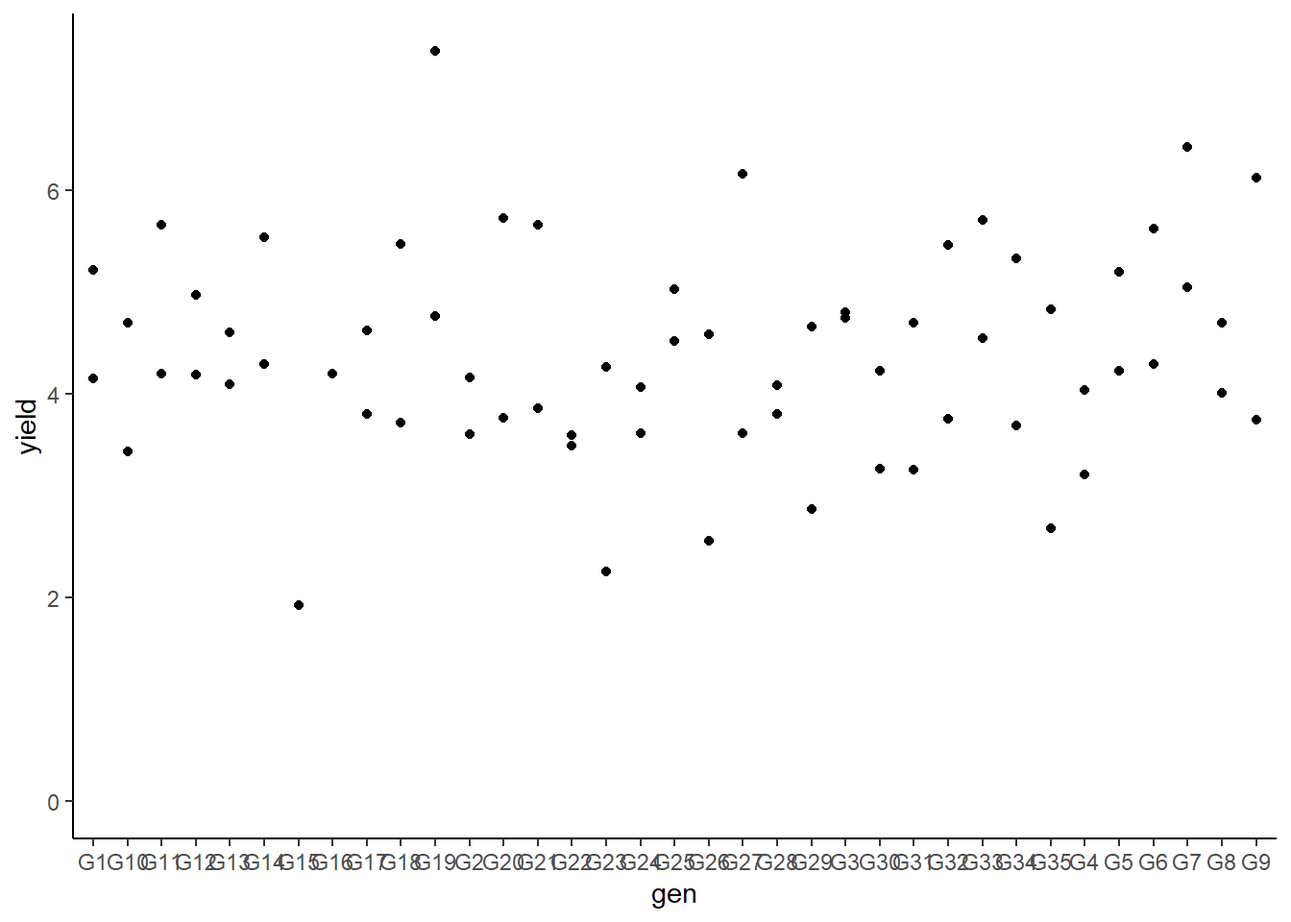
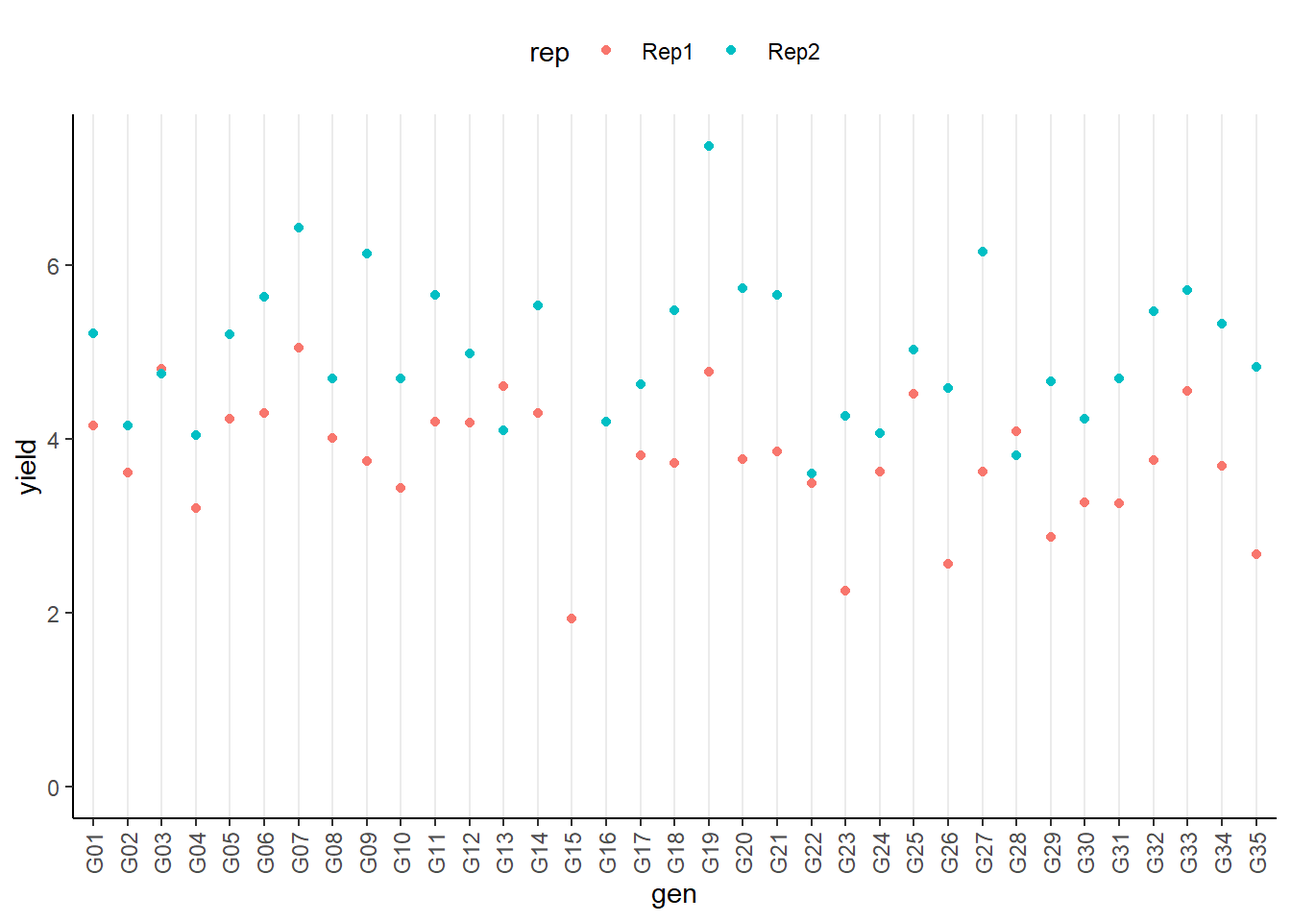
rowcol example

diff --git a/rowcol_KemptonFox1997.html b/rowcol_KemptonFox1997.html
@@ -505,6 +505,9 @@ div.tocify {
     <li>
       <a href="alpha_JohnWilliams1995.html">alpha_JohnWilliams1995</a>
     </li>
+    <li>
+      <a href="rowcol_KemptonFox1997.html">rowcol_KemptonFox1997</a>
+    </li>
   </ul>
 </li>
 <li class="dropdown">
@@ -546,7 +549,7 @@ div.tocify {
 
 <div class="sourceCode" id="cb1"><pre class="sourceCode r"><code class="sourceCode r"><a class="sourceLine" id="cb1-1" title="1"><span class="co"># packages</span></a>
 <a class="sourceLine" id="cb1-2" title="2">pacman<span class="op">::</span><span class="kw">p_load</span>(janitor, readr, tidyverse, <span class="co"># data import and handling</span></a>
-<a class="sourceLine" id="cb1-3" title="3">               lme4,                      <span class="co"># linear mixed model </span></a>
+<a class="sourceLine" id="cb1-3" title="3">               lme4, lmerTest,            <span class="co"># linear mixed model </span></a>
 <a class="sourceLine" id="cb1-4" title="4">               emmeans, multcomp,         <span class="co"># mean comparisons</span></a>
 <a class="sourceLine" id="cb1-5" title="5">               ggplot2, desplot)          <span class="co"># plots </span></a></code></pre></div>
 <div id="data" class="section level1">
@@ -563,10 +566,10 @@ div.tocify {
 ##    rep     row   col gen   yield
 ##    &lt;chr&gt; &lt;dbl&gt; &lt;dbl&gt; &lt;chr&gt; &lt;dbl&gt;
 ##  1 Rep1      1     1 G20    3.77
-##  2 Rep1      1     2 G4     3.21
+##  2 Rep1      1     2 G04    3.21
 ##  3 Rep1      1     3 G33    4.55
 ##  4 Rep1      1     4 G28    4.09
-##  5 Rep1      1     5 G7     5.05
+##  5 Rep1      1     5 G07    5.05
 ##  6 Rep1      1     6 G12    4.19
 ##  7 Rep1      1     7 G30    3.27
 ##  8 Rep1      2     1 G10    3.44
@@ -602,48 +605,219 @@ div.tocify {
 ##    gen    mean std.dev
 ##    &lt;fct&gt; &lt;dbl&gt;   &lt;dbl&gt;
 ##  1 G19    6.07  1.84  
-##  2 G7     5.74  0.976 
+##  2 G07    5.74  0.976 
 ##  3 G33    5.13  0.820 
-##  4 G6     4.96  0.940 
-##  5 G9     4.94  1.68  
+##  4 G06    4.96  0.940 
+##  5 G09    4.94  1.68  
 ##  6 G11    4.93  1.03  
 ##  7 G14    4.92  0.877 
 ##  8 G27    4.89  1.80  
-##  9 G3     4.78  0.0424
+##  9 G03    4.78  0.0424
 ## 10 G25    4.78  0.361 
 ## 11 G21    4.76  1.27  
 ## 12 G20    4.75  1.39  
-## 13 G5     4.72  0.686 
-## 14 G1     4.69  0.757 
+## 13 G05    4.72  0.686 
+## 14 G01    4.69  0.757 
 ## 15 G32    4.62  1.21  
 ## 16 G18    4.6   1.24  
 ## 17 G12    4.59  0.559 
 ## 18 G34    4.51  1.16  
-## 19 G13    4.36  0.361 
-## 20 G8     4.36  0.488 
+## 19 G08    4.36  0.488 
+## 20 G13    4.36  0.361 
 ## 21 G17    4.22  0.580 
 ## 22 G16    4.2  NA     
 ## 23 G10    4.07  0.891 
 ## 24 G31    3.98  1.02  
 ## 25 G28    3.95  0.198 
-## 26 G2     3.88  0.389 
+## 26 G02    3.88  0.389 
 ## 27 G24    3.84  0.318 
 ## 28 G29    3.76  1.27  
 ## 29 G35    3.76  1.52  
 ## 30 G30    3.75  0.679 
-## 31 G4     3.62  0.587 
+## 31 G04    3.62  0.587 
 ## 32 G26    3.58  1.44  
 ## 33 G22    3.54  0.0778
 ## 34 G23    3.26  1.42  
 ## 35 G15    1.93 NA</code></pre>
 <p>We can also create a plot to get a better feeling for the data.</p>
 <div class="sourceCode" id="cb8"><pre class="sourceCode r"><code class="sourceCode r"><a class="sourceLine" id="cb8-1" title="1"><span class="kw">ggplot</span>(<span class="dt">data =</span> dat,</a>
-<a class="sourceLine" id="cb8-2" title="2">       <span class="kw">aes</span>(<span class="dt">y =</span> yield, <span class="dt">x =</span> gen)) <span class="op">+</span></a>
+<a class="sourceLine" id="cb8-2" title="2">       <span class="kw">aes</span>(<span class="dt">y =</span> yield, <span class="dt">x =</span> gen, <span class="dt">color=</span>rep)) <span class="op">+</span></a>
 <a class="sourceLine" id="cb8-3" title="3"><span class="st">  </span><span class="kw">geom_point</span>() <span class="op">+</span><span class="st">  </span><span class="co"># scatter plot</span></a>
 <a class="sourceLine" id="cb8-4" title="4"><span class="st">  </span><span class="kw">ylim</span>(<span class="dv">0</span>, <span class="ot">NA</span>) <span class="op">+</span><span class="st">   </span><span class="co"># force y-axis to start at 0</span></a>
-<a class="sourceLine" id="cb8-5" title="5"><span class="st">  </span><span class="kw">theme_classic</span>() <span class="co"># clearer plot format </span></a></code></pre></div>
-<pre><code>## Warning: Removed 2 rows containing missing values (geom_point).</code></pre>
+<a class="sourceLine" id="cb8-5" title="5"><span class="st">  </span><span class="kw">theme_classic</span>() <span class="op">+</span><span class="st"> </span><span class="co"># clearer plot format </span></a>
+<a class="sourceLine" id="cb8-6" title="6"><span class="st">  </span><span class="kw">theme</span>(<span class="dt">axis.text.x =</span> <span class="kw">element_text</span>(<span class="dt">angle=</span><span class="dv">90</span>, <span class="dt">vjust=</span><span class="fl">0.5</span>), <span class="co"># rotate x-axis label</span></a>
+<a class="sourceLine" id="cb8-7" title="7">        <span class="dt">panel.grid.major.x =</span> <span class="kw">element_line</span>(), <span class="co"># add vertikal grid lines</span></a>
+<a class="sourceLine" id="cb8-8" title="8">        <span class="dt">legend.position =</span> <span class="st">&quot;top&quot;</span>) <span class="co"># legend on top </span></a></code></pre></div>
 <p><img src="rowcol_KemptonFox1997_files/figure-html/unnamed-chunk-7-1.png" width="672" style="display: block; margin: auto;" /></p>
+</div>
+</div>
+<div id="modelling" class="section level1">
+<h1>Modelling</h1>
+<p>Finally, we can decide to fit a linear model with <code>yield</code> as the response variable and fixed <code>gen</code> and <code>rep</code> effects. There also need to be terms for the 5 rows (<code>row</code>) and 7 columns (<code>col</code>) per replicate. Notice that they can either be taken as a fixed or a random effects. Since our goal is to compare genotypes, we will determine which of the two models we prefer by comparing the average standard error of a difference (s.e.d.) for the comparisons between adjusted genotype means - the lower the s.e.d. the better.</p>
+<p>Also notice that in our dataset the <code>row</code> and <code>col</code> columns were defined as <em>numeric</em> because this format is needed when creating the field layout with desplot as we did above. However, now in order to have row and column effects in our model, we need to define them as factors. To make this clear, we will not just change the format, but create a copy of these two columns in the correct format:</p>
+<div class="sourceCode" id="cb9"><pre class="sourceCode r"><code class="sourceCode r"><a class="sourceLine" id="cb9-1" title="1">dat &lt;-<span class="st"> </span>dat <span class="op">%&gt;%</span><span class="st"> </span></a>
+<a class="sourceLine" id="cb9-2" title="2"><span class="st">  </span><span class="kw">mutate</span>(<span class="dt">row_fct =</span> <span class="kw">as.factor</span>(row),</a>
+<a class="sourceLine" id="cb9-3" title="3">         <span class="dt">col_fct =</span> <span class="kw">as.factor</span>(col))</a></code></pre></div>
+<p>Furthermore, when building our model we must ensure that row and column effects are being estimated <strong>per replicate</strong>. Thuse, we have 2x5 row effects and 2x7 column effects. This can be done as:</p>
+<div class="row">
+<div class="col-md-6">
+<div class="sourceCode" id="cb10"><pre class="sourceCode r"><code class="sourceCode r"><a class="sourceLine" id="cb10-1" title="1"><span class="co"># rows and cols fixed (linear model)</span></a>
+<a class="sourceLine" id="cb10-2" title="2">mod.fb &lt;-<span class="st"> </span><span class="kw">lm</span>(yield <span class="op">~</span><span class="st"> </span>gen <span class="op">+</span><span class="st"> </span>rep <span class="op">+</span></a>
+<a class="sourceLine" id="cb10-3" title="3"><span class="st">               </span>rep<span class="op">:</span>row_fct <span class="op">+</span><span class="st"> </span></a>
+<a class="sourceLine" id="cb10-4" title="4"><span class="st">               </span>rep<span class="op">:</span>col_fct,</a>
+<a class="sourceLine" id="cb10-5" title="5">             <span class="dt">data =</span> dat)</a>
+<a class="sourceLine" id="cb10-6" title="6"></a>
+<a class="sourceLine" id="cb10-7" title="7">mod.fb <span class="op">%&gt;%</span></a>
+<a class="sourceLine" id="cb10-8" title="8"><span class="st">  </span><span class="kw">emmeans</span>(pairwise <span class="op">~</span><span class="st"> &quot;gen&quot;</span>,</a>
+<a class="sourceLine" id="cb10-9" title="9">          <span class="dt">adjust =</span> <span class="st">&quot;tukey&quot;</span>,</a>
+<a class="sourceLine" id="cb10-10" title="10">          <span class="dt">lmer.df =</span> <span class="st">&quot;kenward-roger&quot;</span>) <span class="op">%&gt;%</span></a>
+<a class="sourceLine" id="cb10-11" title="11"><span class="st">  </span><span class="kw">pluck</span>(<span class="st">&quot;contrasts&quot;</span>) <span class="op">%&gt;%</span><span class="st"> </span><span class="co"># extract diffs</span></a>
+<a class="sourceLine" id="cb10-12" title="12"><span class="st">  </span>as_tibble <span class="op">%&gt;%</span><span class="st"> </span><span class="co"># format to table</span></a>
+<a class="sourceLine" id="cb10-13" title="13"><span class="st">  </span><span class="kw">pluck</span>(<span class="st">&quot;SE&quot;</span>) <span class="op">%&gt;%</span><span class="st"> </span><span class="co"># extract s.e.d. column</span></a>
+<a class="sourceLine" id="cb10-14" title="14"><span class="st">  </span>mean <span class="co"># get arithmetic mean</span></a></code></pre></div>
+<pre><code>## [1] 0.4083057</code></pre>
+</div>
+<div class="col-md-6">
+<div class="sourceCode" id="cb12"><pre class="sourceCode r"><code class="sourceCode r"><a class="sourceLine" id="cb12-1" title="1"><span class="co"># rows and cols random (linear mixed model)</span></a>
+<a class="sourceLine" id="cb12-2" title="2">mod.rb &lt;-<span class="st"> </span><span class="kw">lmer</span>(yield <span class="op">~</span><span class="st"> </span>gen <span class="op">+</span><span class="st"> </span>rep <span class="op">+</span></a>
+<a class="sourceLine" id="cb12-3" title="3"><span class="st">                 </span>(<span class="dv">1</span><span class="op">|</span>rep<span class="op">:</span>row_fct) <span class="op">+</span><span class="st"> </span></a>
+<a class="sourceLine" id="cb12-4" title="4"><span class="st">                 </span>(<span class="dv">1</span><span class="op">|</span>rep<span class="op">:</span>col_fct),</a>
+<a class="sourceLine" id="cb12-5" title="5">               <span class="dt">data =</span> dat)</a>
+<a class="sourceLine" id="cb12-6" title="6"></a>
+<a class="sourceLine" id="cb12-7" title="7">mod.rb <span class="op">%&gt;%</span></a>
+<a class="sourceLine" id="cb12-8" title="8"><span class="st">  </span><span class="kw">emmeans</span>(pairwise <span class="op">~</span><span class="st"> &quot;gen&quot;</span>,</a>
+<a class="sourceLine" id="cb12-9" title="9">          <span class="dt">adjust =</span> <span class="st">&quot;tukey&quot;</span>,</a>
+<a class="sourceLine" id="cb12-10" title="10">          <span class="dt">lmer.df =</span> <span class="st">&quot;kenward-roger&quot;</span>) <span class="op">%&gt;%</span></a>
+<a class="sourceLine" id="cb12-11" title="11"><span class="st">  </span><span class="kw">pluck</span>(<span class="st">&quot;contrasts&quot;</span>) <span class="op">%&gt;%</span><span class="st"> </span><span class="co"># extract diffs</span></a>
+<a class="sourceLine" id="cb12-12" title="12"><span class="st">  </span>as_tibble <span class="op">%&gt;%</span><span class="st"> </span><span class="co"># format to table</span></a>
+<a class="sourceLine" id="cb12-13" title="13"><span class="st">  </span><span class="kw">pluck</span>(<span class="st">&quot;SE&quot;</span>) <span class="op">%&gt;%</span><span class="st"> </span><span class="co"># extract s.e.d. column</span></a>
+<a class="sourceLine" id="cb12-14" title="14"><span class="st">  </span>mean <span class="co"># get arithmetic mean</span></a></code></pre></div>
+<pre><code>## [1] 0.4020136</code></pre>
+</div>
+</div>
+<p>As a result, we find that the model with random row and column effects has the smaller s.e.d. and is therefore more precise in terms of comparing genotypes.</p>
+<div id="anova" class="section level2">
+<h2>ANOVA</h2>
+<p>Thus, we can conduct an ANOVA for this model.</p>
+<div class="sourceCode" id="cb14"><pre class="sourceCode r"><code class="sourceCode r"><a class="sourceLine" id="cb14-1" title="1">mod.rb <span class="op">%&gt;%</span><span class="st"> </span><span class="kw">anova</span>()</a></code></pre></div>
+<pre><code>## Type III Analysis of Variance Table with Satterthwaite&#39;s method
+##      Sum Sq Mean Sq NumDF  DenDF F value   Pr(&gt;F)   
+## gen 15.0149 0.44161    34 13.770  4.8988 0.001465 **
+## rep  1.5606 1.56061     1 12.651 17.3119 0.001183 **
+## ---
+## Signif. codes:  0 &#39;***&#39; 0.001 &#39;**&#39; 0.01 &#39;*&#39; 0.05 &#39;.&#39; 0.1 &#39; &#39; 1</code></pre>
+<p>As can be seen, the F-test finds the <code>gen</code> effects to be statistically significant (p = 0.0015 &lt; 0.05).</p>
+</div>
+<div id="mean-comparisons" class="section level2">
+<h2>Mean comparisons</h2>
+<div class="sourceCode" id="cb16"><pre class="sourceCode r"><code class="sourceCode r"><a class="sourceLine" id="cb16-1" title="1">mean_comparisons &lt;-<span class="st"> </span>mod.rb <span class="op">%&gt;%</span></a>
+<a class="sourceLine" id="cb16-2" title="2"><span class="st">  </span><span class="kw">emmeans</span>(pairwise <span class="op">~</span><span class="st"> &quot;gen&quot;</span>,</a>
+<a class="sourceLine" id="cb16-3" title="3">          <span class="dt">adjust =</span> <span class="st">&quot;tukey&quot;</span>,</a>
+<a class="sourceLine" id="cb16-4" title="4">          <span class="dt">lmer.df =</span> <span class="st">&quot;kenward-roger&quot;</span>) <span class="op">%&gt;%</span></a>
+<a class="sourceLine" id="cb16-5" title="5"><span class="st">  </span><span class="kw">pluck</span>(<span class="st">&quot;emmeans&quot;</span>) <span class="op">%&gt;%</span></a>
+<a class="sourceLine" id="cb16-6" title="6"><span class="st">  </span><span class="kw">cld</span>(<span class="dt">details =</span> <span class="ot">TRUE</span>, <span class="dt">Letters =</span> letters) <span class="co"># add letter display</span></a>
+<a class="sourceLine" id="cb16-7" title="7"></a>
+<a class="sourceLine" id="cb16-8" title="8">mean_comparisons<span class="op">$</span>emmeans <span class="co"># adjusted genotype means</span></a></code></pre></div>
+<pre><code>##  gen emmean    SE   df lower.CL upper.CL .group
+##  G15   3.22 0.443 23.5     1.62     4.81  a    
+##  G23   3.42 0.304 25.6     2.34     4.51  a    
+##  G04   3.52 0.305 25.5     2.43     4.61  a    
+##  G35   3.60 0.309 25.8     2.50     4.70  a    
+##  G26   3.76 0.316 26.8     2.64     4.88  ab   
+##  G29   3.79 0.308 25.9     2.70     4.89  ab   
+##  G31   3.86 0.309 26.1     2.76     4.96  ab   
+##  G24   3.89 0.302 25.3     2.81     4.97  abc  
+##  G02   3.91 0.309 26.1     2.82     5.01  abc  
+##  G30   3.95 0.305 25.5     2.87     5.04  abc  
+##  G16   3.95 0.439 22.9     2.37     5.54  abc  
+##  G22   4.01 0.311 26.4     2.91     5.12  abc  
+##  G17   4.15 0.312 26.1     3.04     5.26  abc  
+##  G32   4.26 0.308 25.9     3.17     5.36  abc  
+##  G28   4.29 0.310 25.7     3.19     5.40  abc  
+##  G34   4.30 0.302 25.3     3.22     5.38  abc  
+##  G20   4.32 0.302 25.3     3.24     5.40  abc  
+##  G10   4.33 0.309 25.7     3.23     5.43  abc  
+##  G09   4.35 0.306 25.8     3.26     5.44  abc  
+##  G05   4.40 0.308 25.7     3.30     5.49  abc  
+##  G18   4.56 0.310 26.4     3.46     5.67  abc  
+##  G21   4.59 0.304 25.5     3.51     5.68  abc  
+##  G08   4.60 0.312 26.2     3.49     5.71  abc  
+##  G25   4.64 0.310 25.7     3.54     5.74  abc  
+##  G13   4.68 0.312 26.1     3.57     5.79  abc  
+##  G27   4.70 0.311 26.1     3.59     5.81  abc  
+##  G14   4.76 0.305 25.6     3.68     5.85  abc  
+##  G01   4.81 0.303 25.4     3.73     5.90  abc  
+##  G33   4.91 0.312 26.2     3.81     6.02  abc  
+##  G11   4.93 0.308 26.0     3.84     6.03  abc  
+##  G12   4.95 0.319 26.6     3.82     6.08  abc  
+##  G07   5.09 0.305 25.5     4.00     6.17  abc  
+##  G03   5.10 0.311 25.8     3.99     6.20  abc  
+##  G06   5.41 0.312 26.0     4.30     6.52   bc  
+##  G19   5.67 0.311 25.9     4.56     6.78    c  
+## 
+## Results are averaged over the levels of: rep 
+## Degrees-of-freedom method: kenward-roger 
+## Confidence level used: 0.95 
+## Conf-level adjustment: sidak method for 35 estimates 
+## P value adjustment: tukey method for comparing a family of 35 estimates 
+## significance level used: alpha = 0.05</code></pre>
+</div>
+</div>
+<div id="present-results" class="section level1">
+<h1>Present results</h1>
+<div id="mean-comparisons-1" class="section level2">
+<h2>Mean comparisons</h2>
+<p>For this example we can create a plot that displays both the raw data and the results, <em>i.e.</em> the comparisons of the adjusted means that are based on the linear model.</p>
+<div class="sourceCode" id="cb18"><pre class="sourceCode r"><code class="sourceCode r"><a class="sourceLine" id="cb18-1" title="1"><span class="co"># sort gen factors according to emmean</span></a>
+<a class="sourceLine" id="cb18-2" title="2"><span class="co"># for adjusted means</span></a>
+<a class="sourceLine" id="cb18-3" title="3">mean_comparisons<span class="op">$</span>emmeans &lt;-<span class="st"> </span>mean_comparisons<span class="op">$</span>emmeans <span class="op">%&gt;%</span><span class="st"> </span></a>
+<a class="sourceLine" id="cb18-4" title="4"><span class="st">  </span><span class="kw">mutate</span>(<span class="dt">gen =</span> <span class="kw">fct_reorder</span>(<span class="dt">.f =</span> gen, <span class="dt">.x =</span> emmean))</a>
+<a class="sourceLine" id="cb18-5" title="5"></a>
+<a class="sourceLine" id="cb18-6" title="6"><span class="co"># for raw data</span></a>
+<a class="sourceLine" id="cb18-7" title="7">dat &lt;-<span class="st"> </span>dat <span class="op">%&gt;%</span><span class="st"> </span></a>
+<a class="sourceLine" id="cb18-8" title="8"><span class="st">  </span><span class="kw">mutate</span>(<span class="dt">gen =</span> <span class="kw">fct_relevel</span>(<span class="dt">.f =</span> gen, </a>
+<a class="sourceLine" id="cb18-9" title="9">                           <span class="kw">as.character</span>(mean_comparisons<span class="op">$</span>emmeans<span class="op">$</span>gen)))</a>
+<a class="sourceLine" id="cb18-10" title="10"></a>
+<a class="sourceLine" id="cb18-11" title="11"><span class="kw">ggplot</span>() <span class="op">+</span></a>
+<a class="sourceLine" id="cb18-12" title="12"><span class="st">  </span><span class="co"># black dots representing the raw data</span></a>
+<a class="sourceLine" id="cb18-13" title="13"><span class="st">  </span><span class="kw">geom_point</span>(</a>
+<a class="sourceLine" id="cb18-14" title="14">    <span class="dt">data =</span> dat,</a>
+<a class="sourceLine" id="cb18-15" title="15">    <span class="kw">aes</span>(<span class="dt">y =</span> yield, <span class="dt">x =</span> gen)</a>
+<a class="sourceLine" id="cb18-16" title="16">  ) <span class="op">+</span></a>
+<a class="sourceLine" id="cb18-17" title="17"><span class="st">  </span><span class="co"># red dots representing the adjusted means</span></a>
+<a class="sourceLine" id="cb18-18" title="18"><span class="st">  </span><span class="kw">geom_point</span>(</a>
+<a class="sourceLine" id="cb18-19" title="19">    <span class="dt">data =</span> mean_comparisons<span class="op">$</span>emmeans,</a>
+<a class="sourceLine" id="cb18-20" title="20">    <span class="kw">aes</span>(<span class="dt">y =</span> emmean, <span class="dt">x =</span> gen),</a>
+<a class="sourceLine" id="cb18-21" title="21">    <span class="dt">color =</span> <span class="st">&quot;red&quot;</span>,</a>
+<a class="sourceLine" id="cb18-22" title="22">    <span class="dt">position =</span> <span class="kw">position_nudge</span>(<span class="dt">x =</span> <span class="fl">0.1</span>)</a>
+<a class="sourceLine" id="cb18-23" title="23">  ) <span class="op">+</span></a>
+<a class="sourceLine" id="cb18-24" title="24"><span class="st">  </span><span class="co"># red error bars representing the confidence limits of the adjusted means</span></a>
+<a class="sourceLine" id="cb18-25" title="25"><span class="st">  </span><span class="kw">geom_errorbar</span>(</a>
+<a class="sourceLine" id="cb18-26" title="26">    <span class="dt">data =</span> mean_comparisons<span class="op">$</span>emmeans,</a>
+<a class="sourceLine" id="cb18-27" title="27">    <span class="kw">aes</span>(<span class="dt">ymin =</span> lower.CL, <span class="dt">ymax =</span> upper.CL, <span class="dt">x =</span> gen),</a>
+<a class="sourceLine" id="cb18-28" title="28">    <span class="dt">color =</span> <span class="st">&quot;red&quot;</span>,</a>
+<a class="sourceLine" id="cb18-29" title="29">    <span class="dt">width =</span> <span class="fl">0.1</span>,</a>
+<a class="sourceLine" id="cb18-30" title="30">    <span class="dt">position =</span> <span class="kw">position_nudge</span>(<span class="dt">x =</span> <span class="fl">0.1</span>)</a>
+<a class="sourceLine" id="cb18-31" title="31">  ) <span class="op">+</span></a>
+<a class="sourceLine" id="cb18-32" title="32"><span class="st">  </span><span class="co"># red letters </span></a>
+<a class="sourceLine" id="cb18-33" title="33"><span class="st">  </span><span class="kw">geom_text</span>(</a>
+<a class="sourceLine" id="cb18-34" title="34">    <span class="dt">data =</span> mean_comparisons<span class="op">$</span>emmeans,</a>
+<a class="sourceLine" id="cb18-35" title="35">    <span class="kw">aes</span>(<span class="dt">y =</span> lower.CL, <span class="dt">x =</span> gen, <span class="dt">label =</span> .group),</a>
+<a class="sourceLine" id="cb18-36" title="36">    <span class="dt">color =</span> <span class="st">&quot;red&quot;</span>,</a>
+<a class="sourceLine" id="cb18-37" title="37">    <span class="dt">angle =</span> <span class="dv">90</span>,</a>
+<a class="sourceLine" id="cb18-38" title="38">    <span class="dt">hjust =</span> <span class="dv">1</span>,</a>
+<a class="sourceLine" id="cb18-39" title="39">    <span class="dt">position =</span> <span class="kw">position_nudge</span>(<span class="dt">y =</span> <span class="op">-</span><span class="st"> </span><span class="fl">0.1</span>)</a>
+<a class="sourceLine" id="cb18-40" title="40">  ) <span class="op">+</span><span class="st"> </span></a>
+<a class="sourceLine" id="cb18-41" title="41"><span class="st">  </span><span class="kw">ylim</span>(<span class="dv">0</span>, <span class="ot">NA</span>) <span class="op">+</span><span class="st"> </span><span class="co"># force y-axis to start at 0</span></a>
+<a class="sourceLine" id="cb18-42" title="42"><span class="st">  </span><span class="kw">ylab</span>(<span class="st">&quot;Yield in t/ha&quot;</span>) <span class="op">+</span><span class="st"> </span><span class="co"># label y-axis</span></a>
+<a class="sourceLine" id="cb18-43" title="43"><span class="st">  </span><span class="kw">xlab</span>(<span class="st">&quot;Genotype&quot;</span>) <span class="op">+</span><span class="st">      </span><span class="co"># label x-axis</span></a>
+<a class="sourceLine" id="cb18-44" title="44"><span class="st">  </span><span class="kw">labs</span>(<span class="dt">caption =</span> <span class="st">&quot;Black dots represent raw data</span></a>
+<a class="sourceLine" id="cb18-45" title="45"><span class="st">       Red dots and error bars represent adjusted mean with 95% confidence limits per genotype</span></a>
+<a class="sourceLine" id="cb18-46" title="46"><span class="st">       Means followed by a common letter are not significantly different according to the Tukey-test&quot;</span>) <span class="op">+</span></a>
+<a class="sourceLine" id="cb18-47" title="47"><span class="st">  </span><span class="kw">theme_classic</span>() <span class="op">+</span><span class="st"> </span><span class="co"># clearer plot format </span></a>
+<a class="sourceLine" id="cb18-48" title="48"><span class="st">  </span><span class="kw">theme</span>(<span class="dt">axis.text.x =</span> <span class="kw">element_text</span>(<span class="dt">angle=</span><span class="dv">90</span>, <span class="dt">vjust=</span><span class="fl">0.5</span>)) <span class="co"># rotate x-axis label</span></a></code></pre></div>
+<pre><code>## Warning: Removed 2 rows containing missing values (geom_point).</code></pre>
+<p><img src="rowcol_KemptonFox1997_files/figure-html/unnamed-chunk-13-1.png" width="672" /></p>
 </div>
 </div>
 

diff --git a/augmented_Pattersen1994.html b/augmented_Pattersen1994.html
@@ -505,6 +505,9 @@ div.tocify {
     <li>
       <a href="alpha_JohnWilliams1995.html">alpha_JohnWilliams1995</a>
     </li>
+    <li>
+      <a href="rowcol_KemptonFox1997.html">rowcol_KemptonFox1997</a>
+    </li>
   </ul>
 </li>
 <li class="dropdown">
@@ -710,7 +713,7 @@ div.tocify {
 <pre><code>## [1] 462.0431</code></pre>
 </div>
 </div>
-<p>As a result, we find that the model with fixed block effects has the slightly smaller s.e.d. and is therefore more accurate in terms of comparing genotypes.</p>
+<p>As a result, we find that the model with fixed block effects has the slightly smaller s.e.d. and is therefore more precise in terms of comparing genotypes.</p>
 <div id="anova" class="section level2">
 <h2>ANOVA</h2>
 <p>Thus, we can conduct an ANOVA for this model.</p>

diff --git a/alpha_JohnWilliams1995.html b/alpha_JohnWilliams1995.html
@@ -505,6 +505,9 @@ div.tocify {
     <li>
       <a href="alpha_JohnWilliams1995.html">alpha_JohnWilliams1995</a>
     </li>
+    <li>
+      <a href="rowcol_KemptonFox1997.html">rowcol_KemptonFox1997</a>
+    </li>
   </ul>
 </li>
 <li class="dropdown">
@@ -713,7 +716,7 @@ div.tocify {
 <pre><code>## [1] 0.2700388</code></pre>
 </div>
 </div>
-<p>As a result, we find that the model with random block effects has the smaller s.e.d. and is therefore more accurate in terms of comparing genotypes.</p>
+<p>As a result, we find that the model with random block effects has the smaller s.e.d. and is therefore more precise in terms of comparing genotypes.</p>
 <div id="anova" class="section level2">
 <h2>ANOVA</h2>
 <p>Thus, we can conduct an ANOVA for this model.</p>

diff --git a/CRD_Mead1993.html b/CRD_Mead1993.html
@@ -505,6 +505,9 @@ div.tocify {
     <li>
       <a href="alpha_JohnWilliams1995.html">alpha_JohnWilliams1995</a>
     </li>
+    <li>
+      <a href="rowcol_KemptonFox1997.html">rowcol_KemptonFox1997</a>
+    </li>
   </ul>
 </li>
 <li class="dropdown">

diff --git a/DesigningExperiments.html b/DesigningExperiments.html
@@ -505,6 +505,9 @@ div.tocify {
     <li>
       <a href="alpha_JohnWilliams1995.html">alpha_JohnWilliams1995</a>
     </li>
+    <li>
+      <a href="rowcol_KemptonFox1997.html">rowcol_KemptonFox1997</a>
+    </li>
   </ul>
 </li>
 <li class="dropdown">

diff --git a/RCBD_ClewerScarisbrick2001.html b/RCBD_ClewerScarisbrick2001.html
@@ -505,6 +505,9 @@ div.tocify {
     <li>
       <a href="alpha_JohnWilliams1995.html">alpha_JohnWilliams1995</a>
     </li>
+    <li>
+      <a href="rowcol_KemptonFox1997.html">rowcol_KemptonFox1997</a>
+    </li>
   </ul>
 </li>
 <li class="dropdown">

diff --git a/index.html b/index.html
@@ -406,6 +406,9 @@ div.tocify {
     <li>
       <a href="alpha_JohnWilliams1995.html">alpha_JohnWilliams1995</a>
     </li>
+    <li>
+      <a href="rowcol_KemptonFox1997.html">rowcol_KemptonFox1997</a>
+    </li>
   </ul>
 </li>
 <li class="dropdown">
